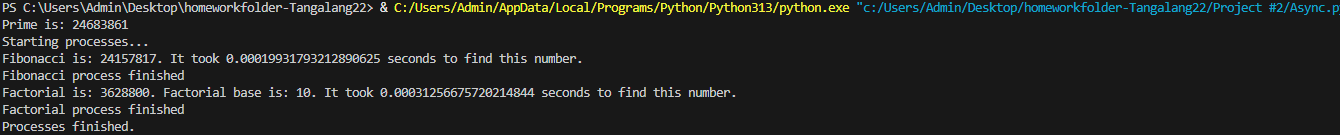
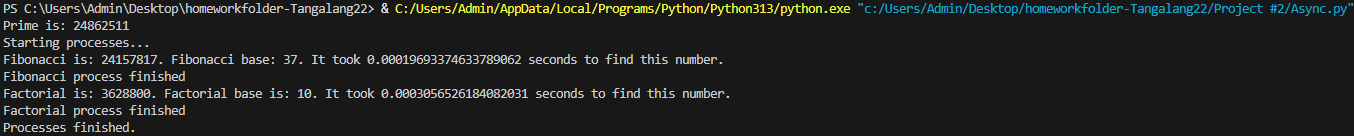
added fibonacci bases

diff --git a/Project #2/Multiprocessing.py b/Project #2/Multiprocessing.py
@@ -30,7 +30,6 @@ def find_fib(queue, optimusprime, starttime):
     count = 1
     while fib < optimusprime:
         fib = a + b
-        c = a #c is for the final result because fib would return one iteration above what i wanted
         a = b
         b = fib
         if b > 1e8:  # Was running into issues of the program running for forever, asked chatgpt and they said to put limits
@@ -38,7 +37,7 @@ def find_fib(queue, optimusprime, starttime):
             return
         count += 1
     fib_time = time.time() - starttime
-    queue.put(f"Fibonacci is: {fib - c}. Fibonacci base: {count}. It took {fib_time} seconds to find this number.")
+    queue.put(f"Fibonacci is: {a}. Fibonacci base: {count - 1}. It took {fib_time} seconds to find this number.")
     print("Fibonacci process finished", flush=True)
 
 def find_fact(queue, optimusprime, starttime):
@@ -87,11 +86,12 @@ if __name__ == '__main__':
         result = queue.get(timeout=5)  # Another time limit to prevent program from timing out, idky it worked in a py file but not in jupyter
         print(result)
     
-
-#Prime is: 24826541
+#Terminal Output
+#Prime is: 25207139
 #Starting processes...
-#Factorial process finished
 #Fibonacci process finished
+#Factorial process finished
 #Processes finished. Reading results from the queue:
-#Factorial is: 3628800. Factorial base is: 10. It took 0.13333487510681152 seconds to find this number.
-#Fibonacci is: 24157817. It took 0.1338810920715332 seconds to find this number.
+#Fibonacci is: 24157817. Fibonacci base: 37. It took 0.13543081283569336 seconds to find this number.
+#Factorial is: 3628800. Factorial base is: 10. It took 0.13554668426513672 seconds to find this number.
+#PS C:\Users\Admin\Desktop\homeworkfolder-Tangalang22> 

diff --git a/Project #2/Async.py b/Project #2/Async.py
@@ -25,18 +25,18 @@ def find_prime(time):
 async def find_fib(optimusprime, starttime):
     a = 0
     b = 1
-    c = 0
     fib = 0
-    while fib < optimusprime:
+    count = 0
+    while fib <= optimusprime:
         fib = a + b
-        c = a #c is for the final result because fib would return one iteration above what i wanted
         a = b
         b = fib
         if b > 1e8:  # Was running into issues of the program running for forever, asked chatgpt and they said to put limits
             print("Fibonacci hit safety limit")
             return
+        count += 1
     fib_time = time.time() - starttime
-    print(f"Fibonacci is: {fib - c}. It took {fib_time} seconds to find this number.")
+    print(f"Fibonacci is: {a}. Fibonacci base: {count}. It took {fib_time} seconds to find this number.")
     print("Fibonacci process finished", flush=True)
 
 async def find_fact(optimusprime, starttime):
@@ -66,3 +66,14 @@ async def main():
     print("Processes finished.")
 
 asyncio.run(main())
+
+#Terminal Output
+#Prime is: 24862511
+#Starting processes...
+#Fibonacci is: 24157817. Fibonacci base: 37. It took 0.00019693374633789062 seconds to find this number.
+#Fibonacci process finished
+#Factorial is: 3628800. Factorial base is: 10. It took 0.0003056526184082031 seconds to find this number.
+#Factorial process finished
+#Processes finished.
+#
+#For context, my CPU has 12 cores and 24 threads.

diff --git a/Project #2/Threading.py b/Project #2/Threading.py
@@ -27,16 +27,18 @@ def find_fib():
     b = 1
     c = 0
     fib = 0
+    count = 0
     while fib < optimusprime:
         fib = a + b
-        c = a #c is for the final result because fib would return one iteration above what i wanted
         a = b
         b = fib
+        count = 0
         if b > 1e8:  # Was running into issues of the program running for forever, asked chatgpt and they said to put limits
             print("Fibonacci hit safety limit")
             return
+        count += 1
     fib_time = time.time() - starttime
-    print(f"Fibonacci is: {fib - c}. It took {fib_time} seconds to find this number.")
+    print(f"Fibonacci is: {a}. Fibonacci base: {count - 1}. It took {fib_time} seconds to find this number.")
     print("Fibonacci process finished", flush=True)
 
 def find_fact():
